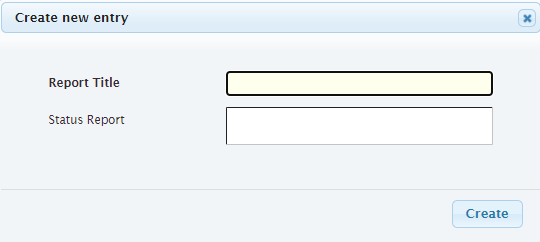
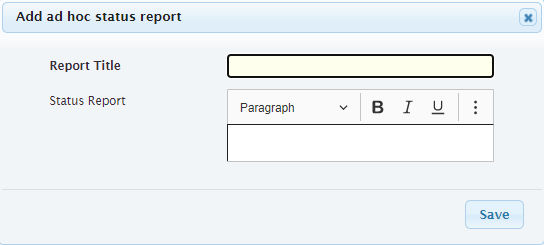
My Status Report view: when empty position status report, give challenge on New (members#295)

diff --git a/members/static/admin/beforedatatables.js b/members/static/admin/beforedatatables.js
@@ -518,6 +518,79 @@ function mystatus_statusreport(e, dt, node, config) {
     window.location.href = newloc;
 }
 
+/**
+ * handles New button from My Status Reports view
+ * @param e
+ * @param dt
+ * @param node
+ * @param config
+ */
+function mystatus_create(e, dt, node, config) {
+    var that = this;
+    var show_editor = function() {
+        dt.editor()
+            .title('Add ad hoc status report')
+            .buttons('Save')
+            .create();
+    }
+    var missing_reports = [];
+    var reports = dt.data();
+    for (var i=0; i<reports.length; i++) {
+        var report = reports[i];
+        if (report.position_id !== "" && (report.statusreport === null || report.statusreport === "")) {
+            missing_reports.push(report.title);
+        }
+    }
+    if (missing_reports.length != 0) {
+        var messagediv = $('<div>',
+            {
+                class: 'DTE_Field field_req',
+                title: 'WARNING!'
+            });
+        messagediv.append($('<p>', {
+            text: 'Creating a "New" status report starts a report for a topic outside your assigned position(s), which ' +
+                'is fine, but may not be what you want to do. Please use the preassigned Position status report(s) to ' +
+                'report on your assigned role(s). '
+        }));
+        messagediv.append($('<p>', {text: 'Empty Position reports:'}))
+        var list = messagediv.append($('<ul>'));
+        for (var i=0; i<missing_reports.length; i++) {
+            list.append('<li>'+ missing_reports[i] + '</li>');
+        }
+        messagediv.append($('<p>', {text: 'Continue to create a new ad hoc report'}));
+        messagediv.append($('<p>', {text: 'Cancel to edit your Position reports'}));
+        messagediv.dialog({
+            modal: true,
+            minWidth: 400,
+            height: 'auto',
+            dialogClass: 'new-challenge',
+            buttons: [
+                {
+                    text: 'Continue',
+                    click: function () {
+                        $(this).dialog('close');
+                        show_editor();
+                    },
+                },
+                {
+                    text: 'Cancel',
+                    click: function () {
+                        $(this).dialog('close');
+                    }
+                }
+
+            ],
+        });
+        // #ffc107 from https://getbootstrap.com/docs/4.0/utilities/colors/
+        $('.new-challenge').children('.ui-dialog-titlebar')
+            .prepend('<span style="float: left;">&nbsp;</span>')
+            .prepend('<i class="fa fa-exclamation-circle" style="color: #ffc107; font-size: 125%; float: left;">');
+    } else {
+        show_editor();
+    }
+}
+
+
 // hide/show fields for discussionitems child table
 function discussionitems_postcreate(dt, ed) {
     if (ed) {

diff --git a/members/views/admin/meetings_member.py b/members/views/admin/meetings_member.py
@@ -256,7 +256,9 @@ def memberstatusreport_buttons():
         today = date.today()
     if invitekey and meeting.date >= today:
         buttons = [
-            'create',
+            {'text': 'New',
+             'action': {'eval': 'mystatus_create'}
+             },
             'editChildRowRefresh',
             {'text': 'RSVP',
              'action': {

diff --git a/docs/meetings-member-guide.rst b/docs/meetings-member-guide.rst
@@ -100,6 +100,8 @@ This opens a form for your :term:`RSVP <rsvp>`:
 * next to **RSVP** select your response, one of *attending*, *not attending*
 * click **Save**
 
+.. _My Status Report update report:
+
 Update your status report(s)
 --------------------------------
 Now you can enter your :term:`status report(s) <status report>`.
@@ -167,11 +169,22 @@ You can edit the discussion item up until the meeting.
 Optionally create ad hoc status for areas not covered by one of your positions
 --------------------------------------------------------------------------------
 Occasionally, there might be a need to create a :term:`status report` or :term:`discussion item` which
-doesn't neatly fit under one of your positions.
+doesn't neatly fit under one of your assigned :term:`positions <position>`.
 
 * above the Status Report table, click **New**
 
-This opens a Create form for the :term:`status report`:
+If you have one or more empty :term:`position` :term:`status reports <status report>`, you will be shown the
+following challenge:
+
+.. image:: images/my-status-report-new-challenge.*
+    :align: center
+
+Assuming you really do mean to create an ad hoc report, click **Continue**. But if you mean to create a report for
+one of your assigned :term:`positions <position>`, click **Cancel** and then follow the directions at
+:ref:`My Status Report update report`.
+
+If all of your assigned :term:`positions <position>` reports have been filled in, or if you click **Continue**
+at the challenge, you will see a form to add an ad hoc :term:`status report`:
 
 .. image:: images/my-status-report-create.*
     :align: center
